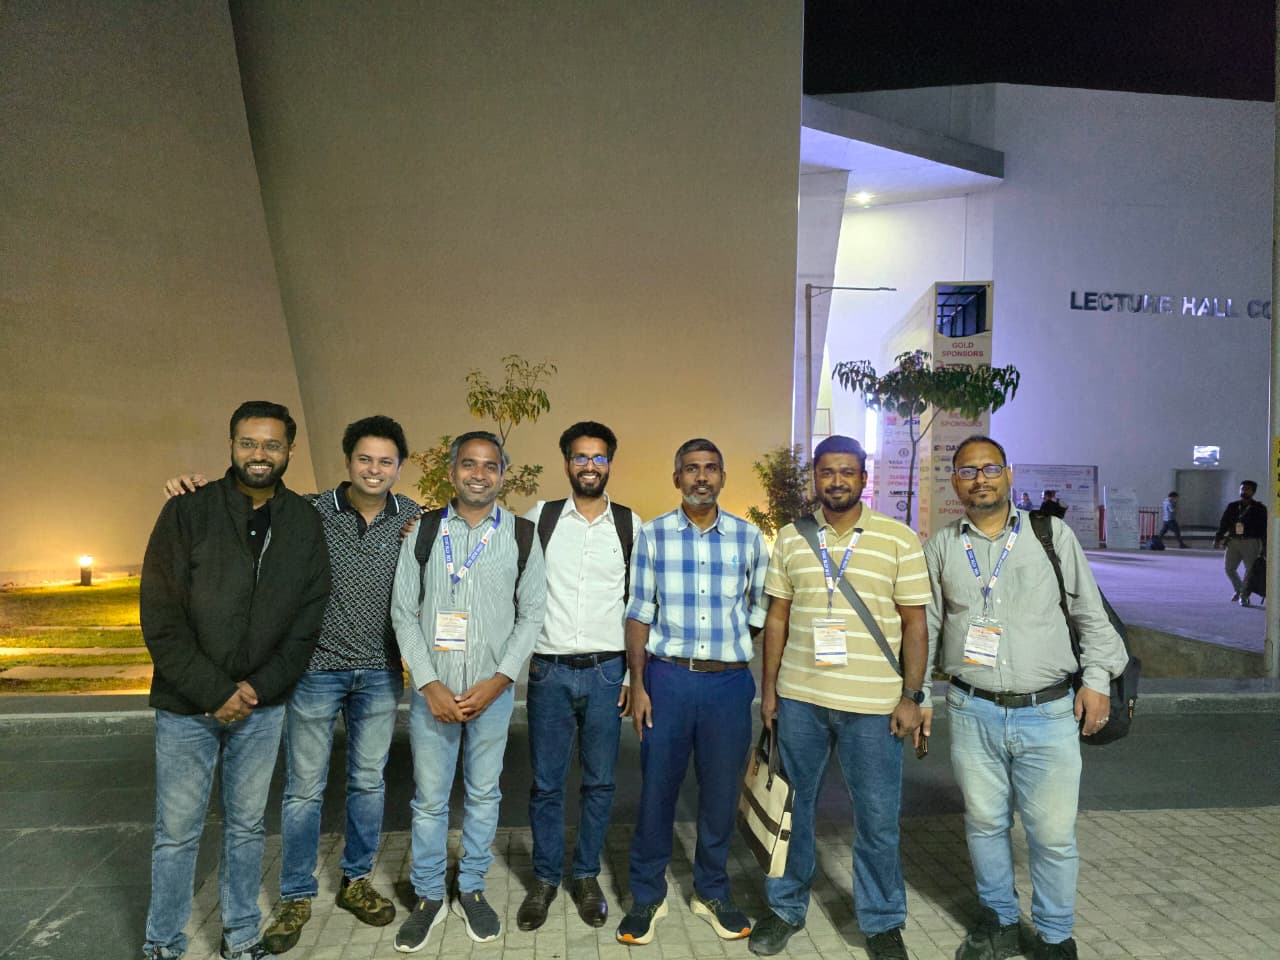
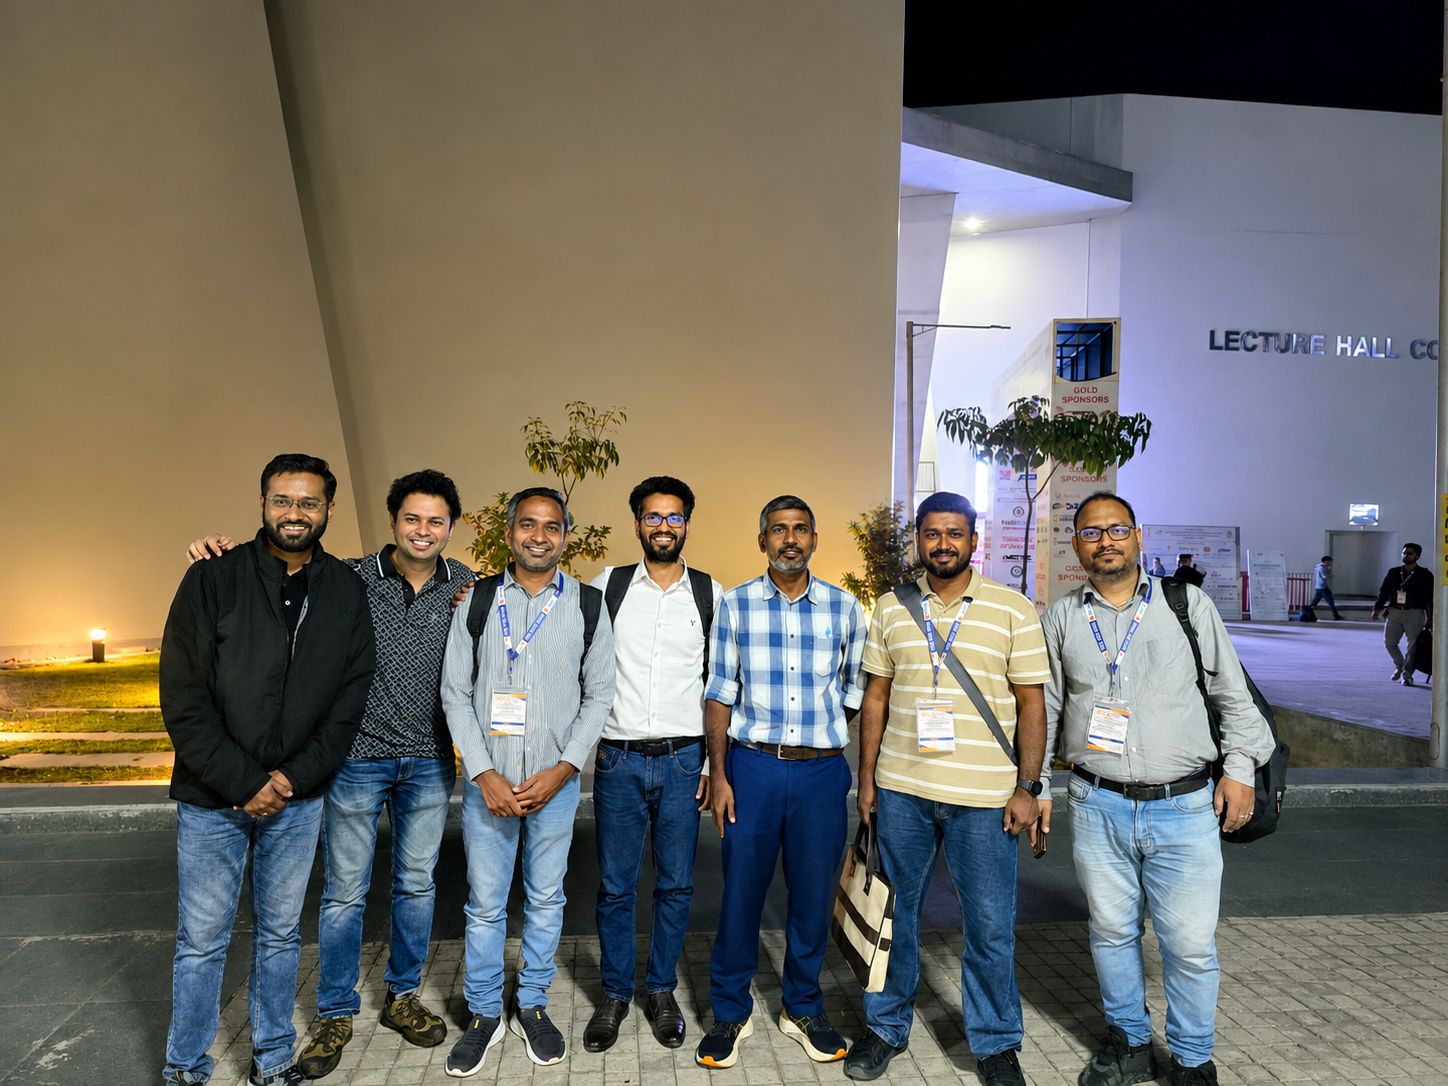
Fix gallery card stacking bug, add group photo to Team Moments and homepage hero, update invited talks count, replace IIM ATM conference photo

diff --git a/themes/psminimal/layouts/gallery/list.html b/themes/psminimal/layouts/gallery/list.html
@@ -36,26 +36,12 @@
       <div class="gallery-toplevel-grid">
 
         <div class="gallery-toplevel-card" onclick="showAlbum('{{ $teamSlug }}', 'level1')">
-          {{ range $categories }}
-            {{ if eq .slug $teamSlug }}
-              {{ $files := index $albumImages .slug }}
-              {{ if $files }}
-              <img src="{{ index $files 0 }}" alt="Team Moments">
-              {{ end }}
-            {{ end }}
-          {{ end }}
+          <img src="/images/gallery/team-moments/group-picture.jpg" alt="Team Moments" class="gallery-toplevel-thumb-team">
           <h3>Team Moments</h3>
         </div>
 
         <div class="gallery-toplevel-card" onclick="showLevel('gallery-level-2')">
-          {{ range $categories }}
-            {{ if ne .slug $teamSlug }}
-              {{ $files := index $albumImages .slug }}
-              {{ if $files }}
-              <img src="{{ index $files 0 }}" alt="Conferences">
-              {{ end }}
-            {{ end }}
-          {{ end }}
+          <img src="/images/gallery/iim-atm-2025/photo-01.jpg" alt="Conferences">
           <h3>Conferences</h3>
         </div>
 

diff --git a/themes/psminimal/static/css/style.css b/themes/psminimal/static/css/style.css
@@ -2374,6 +2374,10 @@ section.block img[src*="/images/team/"] {
   display: block;
 }
 
+.hero-team-photo {
+  object-position: center 20%;
+}
+
 /* ==========================================================
    23. Achievement strip (About page)
    ========================================================== */
@@ -2495,6 +2499,10 @@ section.block img[src*="/images/team/"] {
   width: 100%;
   height: 260px;
   object-fit: cover;
+}
+
+.gallery-toplevel-thumb-team {
+  object-position: center 20%;
 }
 
 .gallery-toplevel-card h3 {

diff --git a/themes/psminimal/layouts/index.html b/themes/psminimal/layouts/index.html
@@ -35,9 +35,7 @@
 
   <div class="hero-image">
 
-    <div class="hero-placeholder">
-      Research Image
-    </div>
+    <img src="/images/home-hero.jpg" alt="Dr. Praveen Sathiyamoorthi with research group members" class="hero-team-photo">
 
   </div>
 

diff --git a/content/about/_index.md b/content/about/_index.md
@@ -40,7 +40,7 @@ stats:
   - value: "2"
     label: "Book Chapters"
 
-  - value: "6"
+  - value: "9"
     label: "Invited Talks"
 
 quick_facts: